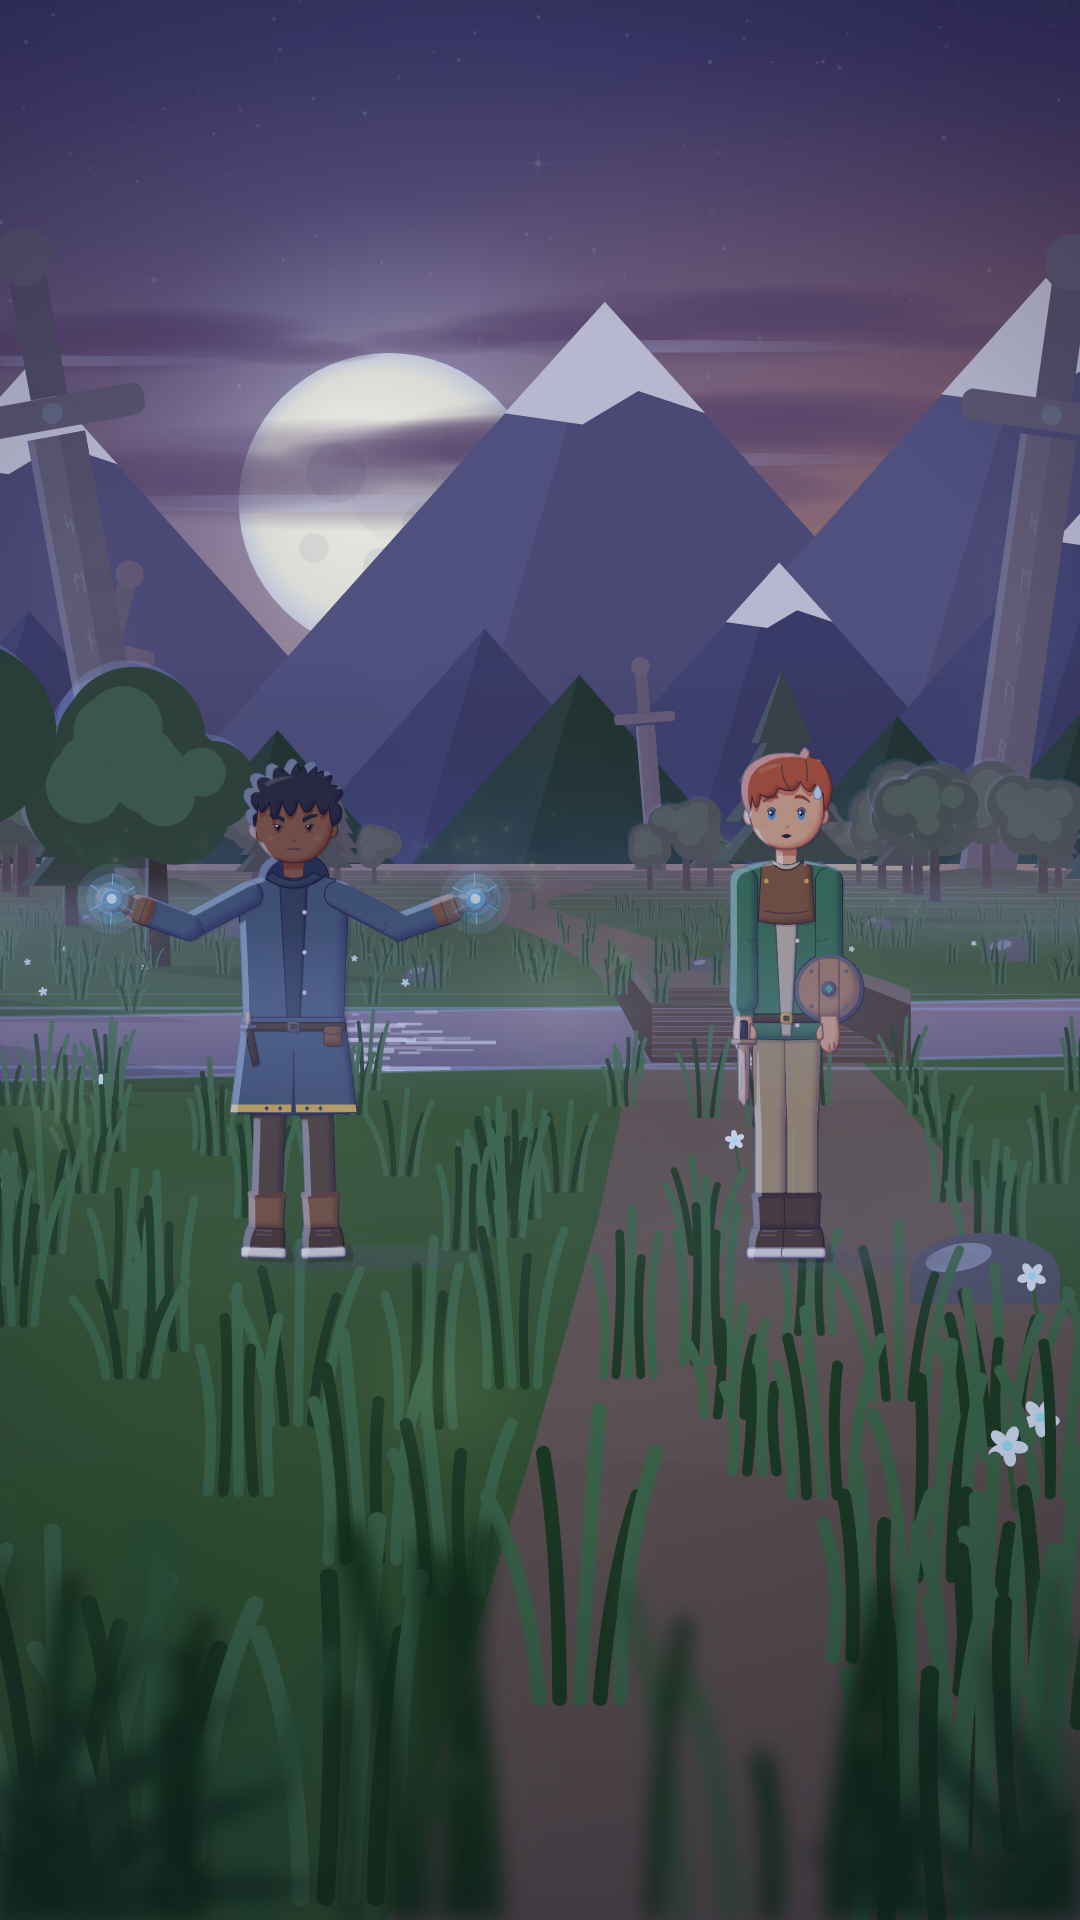
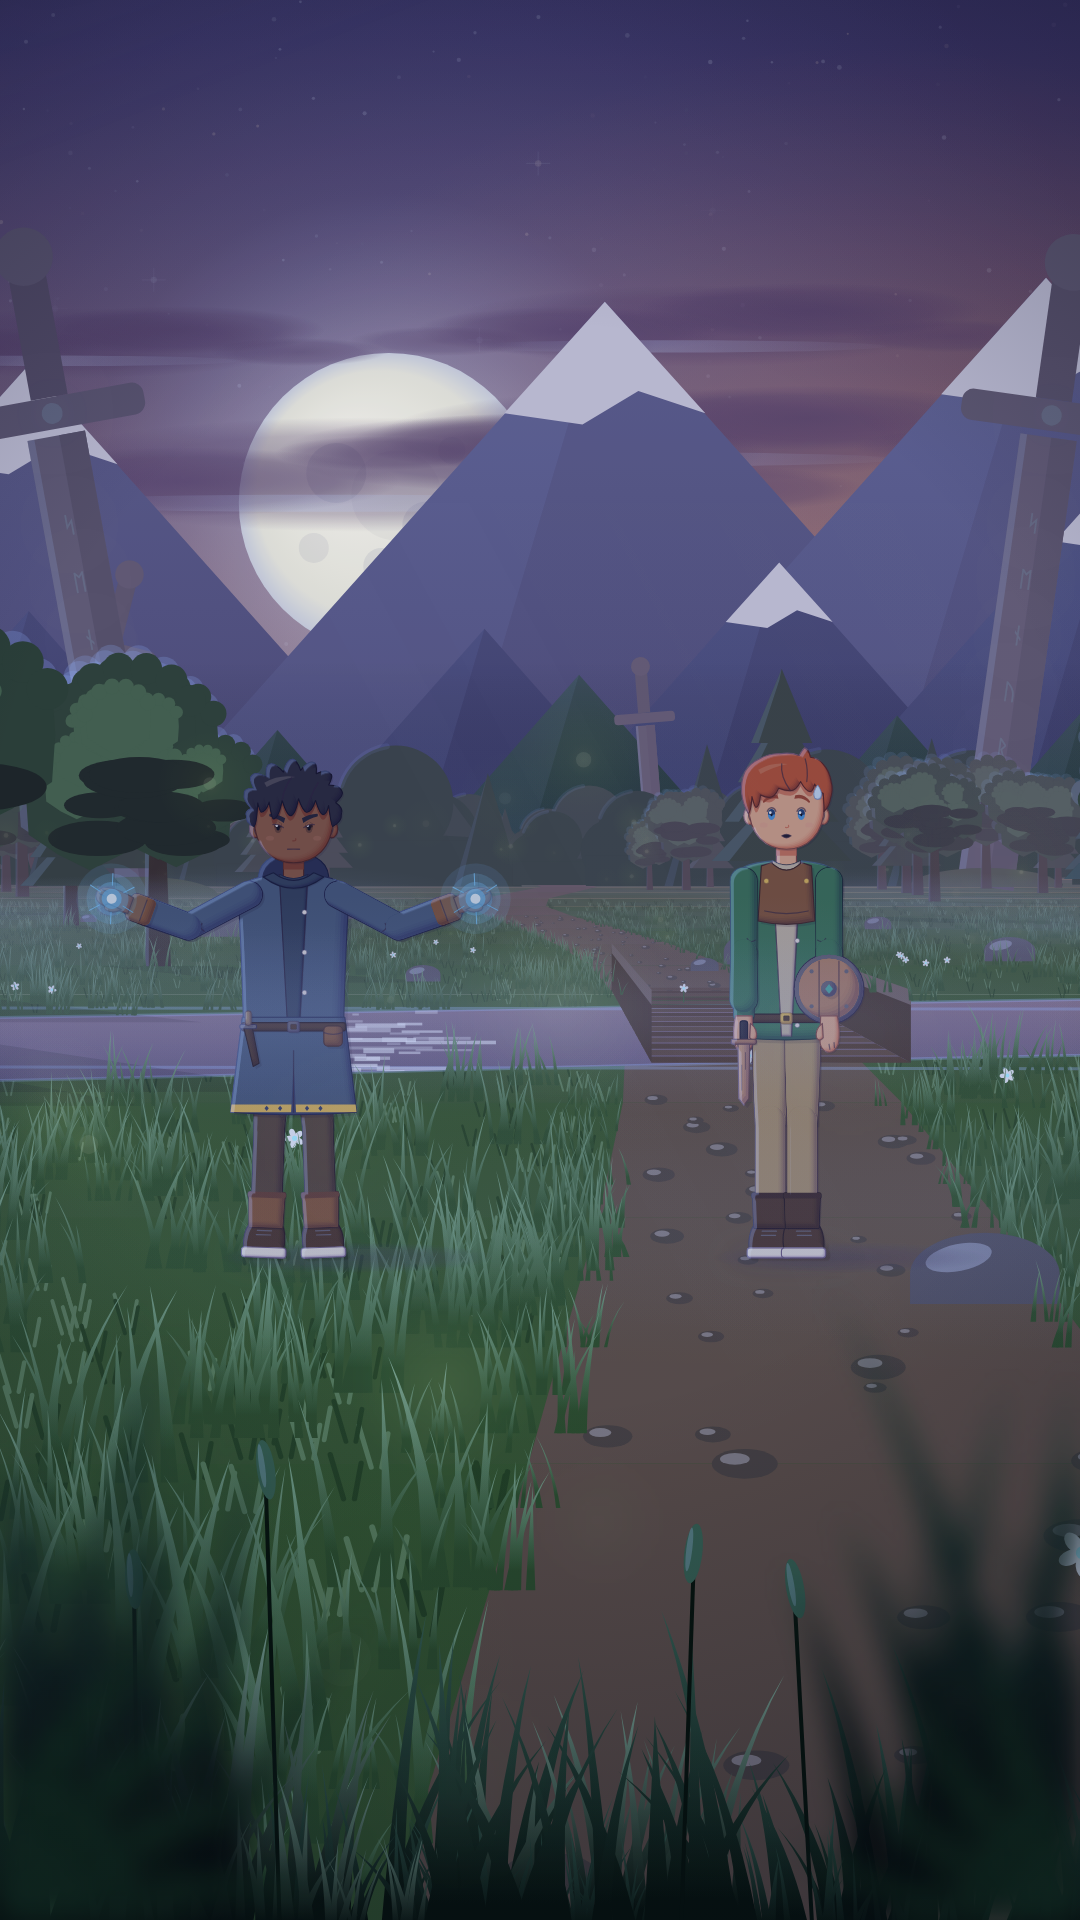
VALDOR Parte 2: grama com folhas de verdade, grama baixa, floresta no fundo, árvores mais cheias, montanhas em degradê
Claude-Session: https://claude.ai/code/session_01VxVnS8CFWSgiPr5zynEPoR

diff --git a/animacao-do-chede/cenarios/valdor-noite.js b/animacao-do-chede/cenarios/valdor-noite.js
@@ -14,6 +14,7 @@
   const RIO = { z0: 8, larg: 3.2 }; // rio atravessando o campo
   const rioZ = (x) => RIO.z0 + Math.sin(x * 0.11) * 0.7 + Math.sin(x * 0.035) * 1.6;
 
+  const naTrilha = (x, z) => Math.abs(x - (Math.sin(z * 0.12) * 1.4 + 0.3)) < 0.8 + z * 0.012;
   const OBJ = (() => {
     const r = rng(2026), arv = [], ped = [], tufo = [], flor = [], luz = [];
     for (let i = 0; i < 70; i++) {
@@ -22,10 +23,15 @@
       arv.push([x, z, 3.2 + r() * 2.6, r() < 0.35 ? 'pinheiro' : 'copa', r() * 1000]);
     }
     for (let i = 0; i < 26; i++) { const z = 1 + r() * 30, x = (r() * 2 - 1) * (3 + z * 0.4); if (Math.abs(x) > 1.2 && Math.abs(z - rioZ(x)) > RIO.larg) ped.push([x, z, 0.18 + r() * 0.35]); }
-    for (let i = 0; i < 700; i++) { const z = 0.5 + Math.pow(r(), 1.6) * 34, x = (r() * 2 - 1) * (2 + z * 0.9); if (Math.abs(z - rioZ(x) - RIO.larg / 2) > RIO.larg * 0.6) tufo.push([x, z, 0.28 + r() * 0.26, r() * 6]); }
+    for (let i = 0; i < 1500; i++) { const z = 0.4 + Math.pow(r(), 1.7) * 32, x = (r() * 2 - 1) * (2.2 + z * 0.9); if (Math.abs(z - rioZ(x) - RIO.larg / 2) > RIO.larg * 0.6 && !naTrilha(x, z)) tufo.push([x, z, 0.28 + r() * 0.26, r() * 6]); }
     for (let i = 0; i < 90; i++) { const z = 0.8 + Math.pow(r(), 1.4) * 18, x = (r() * 2 - 1) * (2 + z * 0.8); if (Math.abs(x) > 0.9 && Math.abs(z - rioZ(x) - RIO.larg / 2) > RIO.larg * 0.6) flor.push([x, z, r() * 6]); }
     for (let i = 0; i < 90; i++) luz.push([(r() * 2 - 1) * 9, 0.25 + r() * 1.8, 1 + Math.pow(r(), 1.3) * 26, r() * 10, 0.6 + r() * 0.8]);
-    return { arv, ped, tufo, flor, luz };
+    // grama nas bordas da trilha e pedrinhas no caminho
+    const seixo = [];
+    for (let z = 0.6; z < 30; z += 0.22 + z * 0.02) { const cx = Math.sin(z * 0.12) * 1.4 + 0.3, w = 0.8 + z * 0.012; if (Math.abs(z - rioZ(cx) - RIO.larg / 2) < RIO.larg * 0.8) continue; for (const sd of [-1, 1]) tufo.push([cx + sd * (w - 0.05 + r() * 0.2), z + r() * 0.1, 0.16 + r() * 0.16, r() * 6]); for (let k = 0; k < 2; k++) seixo.push([cx + (r() * 2 - 1) * w * 0.8, z + r() * 0.2, 0.03 + r() * 0.05]); }
+    const grama = []; for (let i = 0; i < 4200; i++) { const z = 0.3 + Math.pow(r(), 1.5) * 40, x = (r() * 2 - 1) * (2 + z * 0.95); if (Math.abs(z - rioZ(x) - RIO.larg / 2) > RIO.larg * 0.55 && !naTrilha(x, z)) grama.push([x, z, r()]); }
+    const mata = []; for (const [zf, n0, seed] of [[95, 120, 1], [62, 90, 2]]) { const rr = rng(seed + 50); for (let i = 0; i < n0; i++) mata.push([(i / n0) * 360 - 180 + rr() * 2, zf + rr() * 6, 4 + rr() * 5, rr() < 0.4 ? 'p' : 'c', zf]); }
+    return { arv, ped, tufo, flor, luz, grama, mata, seixo };
   })();
   const ESPADAS = [[-16, 46, 26, -0.18], [24, 62, 34, 0.14], [-34, 80, 22, 0.25], [10, 98, 18, -0.08]];
 
@@ -101,7 +107,8 @@
       const ofs = ((desl % (c.per * 4)) + c.per * 4) % (c.per * 4);
       for (let rep = -1; rep <= 1; rep++) {
         const base = -ofs + rep * c.per * 4;
-        ctx.fillStyle = c.cor; ctx.beginPath(); ctx.moveTo(base - 200, hz + 4);
+        const gm = ctx.createLinearGradient(0, hz - c.alt, 0, hz); gm.addColorStop(0, mistura(c.cor, n > 0.5 ? '#8A9AD8' : '#E8B8A8', 0.28)); gm.addColorStop(1, c.cor);
+        ctx.fillStyle = gm; ctx.beginPath(); ctx.moveTo(base - 200, hz + 4);
         for (const [px, ph] of picos) { ctx.lineTo(base + px - ph * 0.9, hz + 4); ctx.lineTo(base + px, hz - ph); ctx.lineTo(base + px + ph * 0.9, hz + 4); }
         ctx.lineTo(base + c.per * 4 + 200, hz + 4); ctx.closePath(); ctx.fill();
         // lado iluminado pela lua (esquerda)
@@ -137,7 +144,7 @@
   function chao(ctx, cam, n, t) {
     const zs = faixasZ(cam), X = 260;
     for (let i = 0; i < zs.length - 1; i++) {
-      const a = zs[i], b = zs[i + 1] + 0.03, k = (i % 2) * 0.03;
+      const a = zs[i], b = zs[i + 1] + 0.03, k = (i % 2) * 0.012;
       face(ctx, cam, [[-X, 0, a], [X, 0, a], [X, 0, b], [-X, 0, b]], mistura(M('#4E7A30', '#18332A', n), M('#46702B', '#152E25', n), k), { contorno: false });
     }
     // luar no chão: manchas mais claras onde a luz passa entre as árvores
@@ -154,8 +161,10 @@
     const e = pts(-1), d = pts(1);
     for (let i = 0; i < e.length - 1; i++) {
       const zr = rioZ(e[i][0] / 2 + d[i][0] / 2); if (e[i][2] > zr - 0.4 && e[i][2] < zr + RIO.larg + 0.4) continue;
-      face(ctx, cam, [e[i], d[i], d[i + 1], e[i + 1]], mistura(M('#8E6A48', '#3A4058', n), M('#84623F', '#353A52', n), (i % 2) * 0.4), { contorno: false });
+      face(ctx, cam, [e[i], d[i], d[i + 1], e[i + 1]], mistura(M('#8E6A48', '#2E3446', n), M('#84623F', '#2B3142', n), (i % 2) * 0.1), { contorno: false });
     }
+    gramaBaixa(ctx, cam, n);
+    for (const [X, Z, rr] of OBJ.seixo) { const q = cam.p(X, 0, Z); if (q.dz < 0.5) continue; ctx.fillStyle = cam.tom(M('#6E5A48', '#22283A', n), Z); ctx.beginPath(); ctx.ellipse(q.x, q.y, rr * q.s, rr * 0.45 * q.s, 0, 0, Math.PI * 2); ctx.fill(); ctx.fillStyle = cam.tom(M('#B8A088', '#4E5E86', n), Z); ctx.beginPath(); ctx.ellipse(q.x - rr * 0.3 * q.s, q.y - rr * 0.15 * q.s, rr * 0.45 * q.s, rr * 0.18 * q.s, 0, 0, Math.PI * 2); ctx.fill(); }
     rio(ctx, cam, n, t);
     ponte(ctx, cam, n);
   }
@@ -234,11 +243,16 @@
       return;
     }
     const cachos = [];
-    for (let i = 0; i < 9; i++) { const a = r() * Math.PI * 2, d = r() * 0.24; cachos.push([Math.cos(a) * d * 1.2, 0.72 + Math.sin(a) * d * 0.8, 0.16 + r() * 0.12]); }
+    for (let i = 0; i < 13; i++) { const a = r() * Math.PI * 2, d = r() * 0.26; cachos.push([Math.cos(a) * d * 1.2, 0.72 + Math.sin(a) * d * 0.8, 0.16 + r() * 0.12]); }
     cachos.sort((a, b) => a[1] - b[1]);
-    for (const [dx, dy, rr] of cachos) { ctx.fillStyle = borda; ctx.beginPath(); ctx.arc(base.x + (dx - 0.025) * k, base.y - (dy + 0.025) * k, rr * k, 0, Math.PI * 2); ctx.fill(); }
-    for (const [dx, dy, rr] of cachos) { ctx.fillStyle = tom(M('#2E5A2E', '#0C1C20', n)); ctx.beginPath(); ctx.arc(base.x + dx * k, base.y - dy * k, rr * k, 0, Math.PI * 2); ctx.fill(); }
-    for (const [dx, dy, rr] of cachos) { ctx.fillStyle = tom(M('#4E8A3A', '#16303A', n)); ctx.beginPath(); ctx.arc(base.x + (dx - 0.04) * k, base.y - (dy + 0.05) * k, rr * 0.55 * k, 0, Math.PI * 2); ctx.fill(); }
+    // galhos
+    ctx.strokeStyle = tom(M('#3E2A20', '#0E1418', n)); ctx.lineWidth = Math.max(1, 0.025 * k); ctx.lineCap = 'round';
+    for (const sd of [-1, 1]) { ctx.beginPath(); ctx.moveTo(base.x, base.y - 0.42 * k); ctx.quadraticCurveTo(base.x + sd * 0.1 * k, base.y - 0.52 * k, base.x + sd * 0.2 * k, base.y - 0.62 * k); ctx.stroke(); }
+    const folhas = (dx, dy, rr, cor, dd = 0) => { ctx.fillStyle = cor; ctx.beginPath(); const cx = base.x + dx * k, cy = base.y - dy * k, R = rr * k; ctx.moveTo(cx + R, cy); for (let a = 0; a <= 12; a++) { const ang = (a / 12) * Math.PI * 2, rb = R * (a % 2 ? 1.0 : 0.9) + dd; ctx.lineTo(cx + Math.cos(ang) * rb, cy + Math.sin(ang) * rb); } ctx.closePath(); ctx.fill(); for (let a = 0; a < 7; a++) { const ang = Math.PI * (1.05 + a * 0.13), rb = R * 0.95; ctx.beginPath(); ctx.arc(cx + Math.cos(ang) * rb, cy + Math.sin(ang) * rb, R * 0.22 + dd * 0.5, 0, Math.PI * 2); ctx.fill(); } };
+    for (const [dx, dy, rr] of cachos) folhas(dx - 0.03, dy + 0.03, rr, borda, 0);
+    for (const [dx, dy, rr] of cachos) folhas(dx, dy, rr, tom(M('#2E5A2E', '#0C1C20', n)));
+    for (const [dx, dy, rr] of cachos) folhas(dx - 0.05, dy + 0.06, rr * 0.5, tom(M('#5E9A42', '#1A3644', n)));
+    ctx.fillStyle = tom(M('#0E2414', '#050C10', n)); for (const [dx, dy, rr] of cachos) { ctx.beginPath(); ctx.ellipse(base.x + (dx + 0.03) * k, base.y - (dy - rr * 0.55) * k, rr * 0.7 * k, rr * 0.25 * k, 0, 0, Math.PI * 2); ctx.fill(); }
   }
   function sombraArvore(ctx, cam, X, Z, alt, n) {
     // sombra do luar: vai para a direita e para a frente (lua à esquerda, atrás)
@@ -247,14 +261,42 @@
     if (pts.some(([, , z]) => z < cam.z + 0.5)) return;
     ctx.fillStyle = `rgba(5,10,20,${0.3 * n * (1 - cam.fator(Z))})`; ctx.fill(Cena3D.caminho(cam, pts));
   }
+  // folhas de grama afinando na ponta, com degradê do pé escuro até a ponta iluminada (tela, em px)
+  function laminas(ctx, x, y, h, w, nl, cBase, cPonta, t, fase, seed, vento = 1) {
+    if (h < 1.5) return;
+    const r = rng(seed), g = ctx.createLinearGradient(0, y - h, 0, y); g.addColorStop(0, cPonta); g.addColorStop(0.5, mistura(cPonta, cBase, 0.55)); g.addColorStop(0.85, cBase); g.addColorStop(1, cBase);
+    ctx.fillStyle = g;
+    for (let i = 0; i < nl; i++) {
+      const bx = x + (r() - 0.5) * w, hh = h * (0.5 + 0.5 * r()), bal = Math.sin(t * 1.5 + fase + i * 0.7) * h * 0.06 * vento, lean = (r() - 0.5) * h * 0.55 + bal, bw = Math.max(0.8, h * 0.035 * (0.7 + 0.6 * r()));
+      ctx.beginPath(); ctx.moveTo(bx - bw, y); ctx.quadraticCurveTo(bx - bw * 0.4 + lean * 0.25, y - hh * 0.6, bx + lean, y - hh); ctx.quadraticCurveTo(bx + bw * 0.4 + lean * 0.25, y - hh * 0.6, bx + bw, y); ctx.closePath(); ctx.fill();
+    }
+  }
   function tufo(ctx, cam, X, Z, h, fase, t, n) {
-    const q = cam.p(X, 0, Z); if (q.dz < 0.5 || q.x < -200 || q.x > 1280) return;
-    const s = q.s, cor = cam.tom(M('#24521C', '#0E2420', n), Z), cor2 = cam.tom(M('#4E8A30', '#2A4A5A', n), Z);
+    const q = cam.p(X, 0, Z); if (q.dz < 0.4 || q.x < -200 || q.x > 1280) return;
+    const s = q.s, hp = h * s, nl = hp > 60 ? 11 : hp > 20 ? 8 : hp > 6 ? 5 : 3;
+    laminas(ctx, q.x, q.y + 0.04 * s, hp, 0.32 * s, nl, cam.tom(M('#3E6E28', '#15302A', n), Z), cam.tom(M('#8CC452', '#6C93C8', n), Z), t, fase, Math.floor(fase * 1000) + 1);
+  }
+  // grama baixa cobrindo o chão (textura)
+  function gramaBaixa(ctx, cam, n) {
+    const escura = M('#2E5E22', '#10261F', n), clara = M('#76A844', '#3A5A6E', n);
     ctx.lineCap = 'round';
-    for (let i = 0; i < 5; i++) {
-      const dx = (i - 2) * 0.035 * s, bal = Math.sin(t * 1.6 + fase + i) * 0.04 * s, alt = h * (0.7 + 0.3 * ((i * 7) % 3) / 2) * s;
-      ctx.strokeStyle = i % 2 ? cor : cor2; ctx.lineWidth = Math.max(1, 0.025 * s);
-      ctx.beginPath(); ctx.moveTo(q.x + dx, q.y); ctx.quadraticCurveTo(q.x + dx + bal * 0.5, q.y - alt * 0.6, q.x + dx * 1.8 + bal, q.y - alt); ctx.stroke();
+    for (const [X, Z, k] of OBJ.grama) {
+      const q = cam.p(X, 0, Z); if (q.dz < 0.5 || q.x < -20 || q.x > 1100 || q.y > 1940) continue;
+      const h = 0.1 * q.s, cor = cam.tom(k < 0.5 ? escura : clara, Z);
+      ctx.strokeStyle = cor; ctx.lineWidth = Math.max(0.8, 0.012 * q.s);
+      ctx.beginPath(); ctx.moveTo(q.x, q.y); ctx.lineTo(q.x - h * 0.3, q.y - h); ctx.moveTo(q.x + h * 0.25, q.y); ctx.lineTo(q.x + h * 0.4, q.y - h * 0.8); ctx.stroke();
+    }
+  }
+  // faixas de floresta no fundo (silhuetas com borda de luar), entre o campo e as montanhas
+  function mata(ctx, cam, n, zFaixa) {
+    const corTopo = `rgba(130,160,240,${0.22 * n})`;
+    for (const [X, Z, h, tipo, zf] of OBJ.mata) {
+      if (zf !== zFaixa) continue;
+      const q = cam.p(X, 0, Z); if (q.dz < 5 || q.x < -300 || q.x > 1400) continue;
+      const k = h * q.s, cor = mistura(cam.tom(M(zf > 80 ? '#3A5A44' : '#2A4A36', zf > 80 ? '#121E36' : '#0C1828', n), Z), M('#3A5A44', '#0A1424', n), 0.45);
+      ctx.fillStyle = cor;
+      if (tipo === 'p') { ctx.beginPath(); ctx.moveTo(q.x, q.y - k); ctx.lineTo(q.x + k * 0.3, q.y); ctx.lineTo(q.x - k * 0.3, q.y); ctx.closePath(); ctx.fill(); ctx.fillStyle = corTopo; ctx.beginPath(); ctx.moveTo(q.x, q.y - k); ctx.lineTo(q.x - k * 0.3, q.y); ctx.lineTo(q.x - k * 0.24, q.y); ctx.closePath(); ctx.fill(); }
+      else { ctx.beginPath(); ctx.arc(q.x, q.y - k * 0.55, k * 0.38, 0, Math.PI * 2); ctx.arc(q.x - k * 0.25, q.y - k * 0.35, k * 0.3, 0, Math.PI * 2); ctx.arc(q.x + k * 0.25, q.y - k * 0.32, k * 0.3, 0, Math.PI * 2); ctx.fill(); ctx.fillRect(q.x - k * 0.5, q.y - k * 0.3, k, k * 0.3); ctx.strokeStyle = corTopo; ctx.lineWidth = Math.max(1, k * 0.04); ctx.beginPath(); ctx.arc(q.x, q.y - k * 0.55, k * 0.38, Math.PI * 1.1, Math.PI * 1.45); ctx.stroke(); }
     }
   }
   // flor da lua: pétalas claras que brilham de leve no escuro
@@ -306,6 +348,7 @@
       chao(ctx, cam, n, t);
       for (const [x, z, h] of OBJ.arv) if (z > cam.z + 1) sombraArvore(ctx, cam, x, z, h, n);
       const lista = [];
+      lista.push([95, () => mata(ctx, cam, n, 95)], [62, () => mata(ctx, cam, n, 62)]);
       if (o.espadas !== false) for (const [x, z, h, inc] of ESPADAS) lista.push([z, () => espadaGigante(ctx, cam, x, z, h, inc, n, t)]);
       for (const [x, z, h, tipo, sem] of OBJ.arv) lista.push([z, () => arvoreNoite(ctx, cam, x, z, h, tipo, sem, n)]);
       for (const [x, z, r] of OBJ.ped) lista.push([z, () => pedra(ctx, cam, x, z, r, n)]);
@@ -319,16 +362,16 @@
     },
     // personagem à noite: escurece/azula o corpo e acende um recorte azul do lado da lua
     personagemNoite(ctx, desenhar, o = {}) {
-      const n = o.noite === undefined ? 1 : o.noite, W = ctx.canvas.width, H = ctx.canvas.height, d = o.recorte || 7;
+      const n = o.noite === undefined ? 1 : o.noite, W = ctx.canvas.width, H = ctx.canvas.height, d = o.recorte || 4;
       const a = document.createElement('canvas'); a.width = W; a.height = H; const ga = a.getContext('2d'); ga.setTransform(ctx.getTransform()); desenhar(ga);
       ga.setTransform(1, 0, 0, 1, 0, 0);
       // tinta da noite
       ga.globalCompositeOperation = 'source-atop'; ga.fillStyle = `rgba(30,45,110,${0.38 * n})`; ga.fillRect(0, 0, W, H);
       // recorte de luar: silhueta azul menos a silhueta deslocada para longe da lua (lua em cima à esquerda)
       const b = document.createElement('canvas'); b.width = W; b.height = H; const gb = b.getContext('2d');
-      gb.drawImage(a, 0, 0); gb.globalCompositeOperation = 'source-in'; gb.fillStyle = 'rgba(170,200,255,1)'; gb.fillRect(0, 0, W, H);
+      gb.drawImage(a, 0, 0); gb.globalCompositeOperation = 'source-in'; gb.fillStyle = 'rgba(120,160,255,1)'; gb.fillRect(0, 0, W, H);
       gb.globalCompositeOperation = 'destination-out'; gb.drawImage(a, d, d * 0.6);
-      ctx.save(); ctx.setTransform(1, 0, 0, 1, 0, 0); ctx.drawImage(a, 0, 0); ctx.globalAlpha = 0.85 * n; ctx.globalCompositeOperation = 'screen'; ctx.drawImage(b, 0, 0); ctx.restore();
+      ctx.save(); ctx.setTransform(1, 0, 0, 1, 0, 0); ctx.drawImage(a, 0, 0); ctx.globalAlpha = 0.6 * n; ctx.globalCompositeOperation = 'screen'; ctx.drawImage(b, 0, 0); ctx.restore();
     },
     // luz da cena: feixes de luar entrando na diagonal, tom azul e vinheta
     luz(ctx, cam, o = {}) {
@@ -353,13 +396,24 @@
       neblina(ctx, cam, n, t, true);
       if (forca > 0) {
         const desl = -(cam.yaw || 0) * cam.f * 1.6 - cam.x * 260;
-        Cinema.desfocado(ctx, 10, (g) => {
-          const r = rng(44); g.lineCap = 'round';
-          for (let i = 0; i < 46; i++) {
-            const x = ((r() * (W + 400) + desl) % (W + 400) + W + 400) % (W + 400) - 200, alt = (180 + r() * 380) * forca, bal = Math.sin(t * 1.3 + i) * 30;
-            g.strokeStyle = i % 3 ? M('#1E4A1A', '#081814', n) : M('#3E7A28', '#1A3440', n); g.lineWidth = 14 + r() * 12;
-            g.beginPath(); g.moveTo(x, H + 20); g.quadraticCurveTo(x + bal * 0.3, H - alt * 0.6, x + bal + (r() - 0.5) * 80, H - alt); g.stroke();
-          }
+        const base = M('#0A1E0C', '#030A08', n), ponta = M('#7CB24A', '#7E9ED6', n), pontaEsc = M('#3E7A2A', '#2E4870', n);
+        // camada nítida: touceiras de grama na borda de baixo, ponta prateada pelo luar
+        const rg = rng(44);
+        for (let i = 0; i < 30; i++) {
+          const x = ((rg() * (W + 300) + desl) % (W + 300) + W + 300) % (W + 300) - 150, h = (160 + rg() * 330) * forca;
+          laminas(ctx, x, H + 30, h, 170, 13, base, i % 3 ? pontaEsc : ponta, t, i, 900 + i, 1.4);
+        }
+        // hastes com sementes (capim alto)
+        for (let i = 0; i < 4; i++) {
+          const x = ((rg() * W + desl * 0.8) % W + W) % W, h = (380 + rg() * 260) * forca, bal = Math.sin(t * 1.2 + i) * 18;
+          ctx.strokeStyle = base; ctx.lineWidth = 4; ctx.beginPath(); ctx.moveTo(x, H + 10); ctx.quadraticCurveTo(x + bal * 0.5, H - h * 0.5, x + bal, H - h); ctx.stroke();
+          ctx.fillStyle = pontaEsc; ctx.beginPath(); ctx.ellipse(x + bal, H - h - 22, 9, 30, bal * 0.01, 0, Math.PI * 2); ctx.fill();
+          ctx.fillStyle = `rgba(170,200,255,${0.5 * n})`; ctx.beginPath(); ctx.ellipse(x + bal - 4, H - h - 26, 3, 22, bal * 0.01, 0, Math.PI * 2); ctx.fill();
+        }
+        // camada desfocada bem perto da câmera, nos cantos (moldura)
+        Cinema.desfocado(ctx, 14, (g) => {
+          const r2 = rng(45);
+          for (let i = 0; i < 12; i++) { const lado = i % 2 ? -1 : 1, x = (lado < 0 ? r2() * 260 - 80 : W - r2() * 260 + 80) + desl * 1.3, h = (520 + r2() * 520) * forca; laminas(g, x, H + 60, h, 260, 9, '#020604', M('#2A5A26', '#1A2E48', n), t, i, 300 + i, 1.8); }
           for (const [cx, ang, esc] of [[-40, -0.5, 1], [W + 40, -2.6, 0.9]]) {
             g.save(); g.translate(cx + desl * 0.3, H + 30); g.rotate(ang + Math.sin(t * 0.9 + cx) * 0.03); g.scale(esc * forca, esc * forca);
             for (let f = -2; f <= 2; f++) { g.save(); g.rotate(f * 0.28); g.strokeStyle = M('#1A3E20', '#06120F', n); g.lineWidth = 10; g.beginPath(); g.moveTo(0, 0); g.quadraticCurveTo(260, -40, 520, 30); g.stroke(); for (let i = 1; i < 14; i++) { const px = i * 36, py = -Math.sin((i / 14) * Math.PI) * 30 + i * 2, l = 70 * (1 - i / 16); g.fillStyle = i % 2 ? M('#255A2A', '#0B1C1A', n) : M('#1E4E24', '#081614', n); for (const sd of [-1, 1]) { g.beginPath(); g.ellipse(px, py + sd * l * 0.5, l * 0.55, 14, sd * 0.9, 0, Math.PI * 2); g.fill(); } } g.restore(); }
